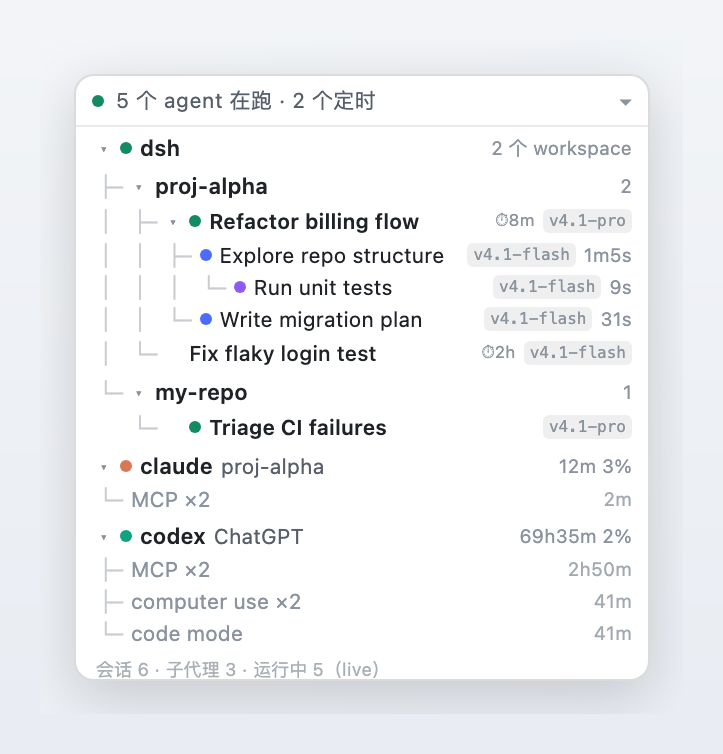
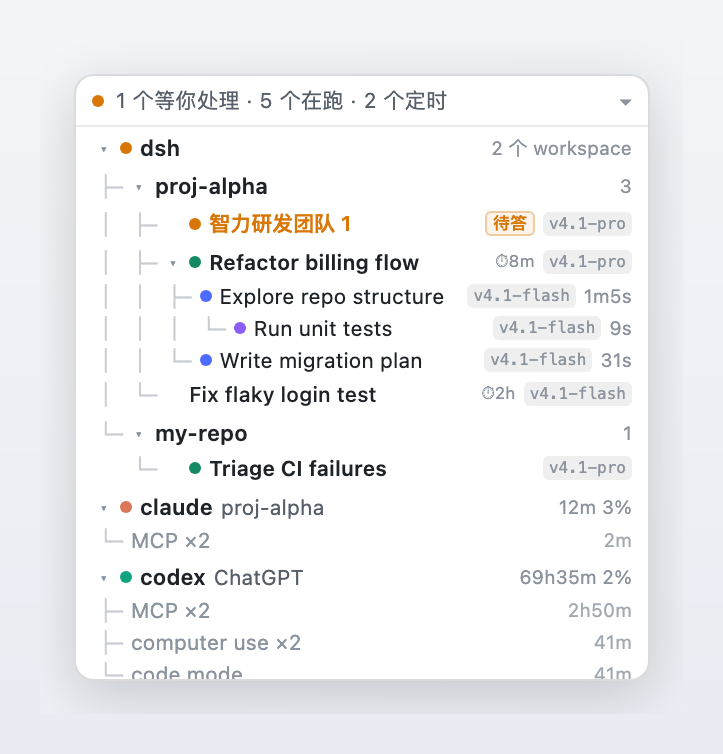
feat: 待处理高亮 + 定时任务修复

diff --git a/client.js b/client.js
@@ -44,6 +44,14 @@ window.__ModuleLoader__.load({
     };
     const KIND_DOT = { claude: '#d97757', codex: '#10a37f' };
 
+    /** 需要你拍板的状态：琥珀色，和「在跑」的绿/蓝明确区分。 */
+    const WAIT = {
+      question: { color: '#d97706', badge: '待答', title: '等你回答 agent 的问题' },
+      approval: { color: '#d97706', badge: '待批', title: '等你批准一次操作' },
+      'plan-review': { color: '#d97706', badge: '待审', title: '等你审阅 agent 的计划' },
+    };
+    const WAIT_ORDER = { question: 0, approval: 1, 'plan-review': 2 };
+
     const GLYPH_FONT = 'ui-monospace, SFMono-Regular, Menlo, Consolas, monospace';
 
     // ------------------------------------------------------------------ 纯函数
@@ -74,8 +82,8 @@ window.__ModuleLoader__.load({
     function sortNodes(nodes) {
       nodes.sort(
         (a, b) =>
-          Number(b.active) - Number(a.active) ||
-          Number(hasSchedule(b)) - Number(hasSchedule(a)) ||
+          nodeRank(b) - nodeRank(a) ||
+          (WAIT_ORDER[b.waiting] ?? 9) - (WAIT_ORDER[a.waiting] ?? 9) ||
           (b.row.updatedAt || 0) - (a.row.updatedAt || 0),
       );
       for (const node of nodes) sortNodes(node.children);
@@ -86,6 +94,21 @@ window.__ModuleLoader__.load({
       const live = statuses && typeof statuses.get === 'function' ? statuses.get(row.id) : undefined;
       if (live && typeof live.running === 'boolean') return live.running;
       return row.running === true;
+    }
+
+    /** 这个会话有没有在等你做判断：`question` / `approval` / `plan-review`。 */
+    function waitingKind(statuses, sessionId) {
+      const live = statuses && typeof statuses.get === 'function' ? statuses.get(sessionId) : undefined;
+      const kind = live && live.pendingInteraction && live.pendingInteraction.kind;
+      return WAIT[kind] ? kind : undefined;
+    }
+
+    /** 节点的排序权重：等你拍板 > 在跑 > 有定时任务 > 其它。 */
+    function nodeRank(node) {
+      if (node && node.waiting) return 3;
+      if (node && node.active) return 2;
+      if (hasSchedule(node)) return 1;
+      return 0;
     }
 
     function baseName(path) {
@@ -286,6 +309,17 @@ window.__ModuleLoader__.load({
       const activeRows = rows.filter((row) => isRunning(row, statuses));
       for (const row of activeRows) attach(row);
 
+      // 需要你判断的会话：可能已经不在跑（等输入），但必须出现在最上面
+      const waitingNodes = new Set();
+      for (const row of rows) {
+        const kind = waitingKind(statuses, row.id);
+        if (kind === undefined) continue;
+        const node = attach(row);
+        if (!node) continue;
+        node.waiting = kind;
+        waitingNodes.add(node);
+      }
+
       // 定时任务（间歇式工作的会话）：不在跑也要列出来，标上倒计时
       const scheduleEntries = schedules instanceof Map ? schedules : new Map();
       const scheduledNodes = new Set();
@@ -311,6 +345,7 @@ window.__ModuleLoader__.load({
       return {
         groups: ordered,
         running: activeRows.length,
+        waiting: waitingNodes.size,
         scheduled: scheduledNodes.size,
         conversations: conversationNodes.size,
         stats,
@@ -440,9 +475,34 @@ window.__ModuleLoader__.load({
       );
     }
 
+    /** 「等你拍板」的小徽标：琥珀色 `待答` / `待批` / `待审`。 */
+    function WaitBadge({ kind }) {
+      const info = WAIT[kind];
+      if (!info) return null;
+      return h(
+        'span',
+        {
+          title: info.title,
+          style: {
+            flex: 'none',
+            fontSize: 8.5,
+            fontWeight: 600,
+            lineHeight: 1,
+            padding: '1px 3px',
+            borderRadius: 3,
+            color: info.color,
+            border: `1px solid ${info.color}55`,
+            background: `${info.color}14`,
+          },
+        },
+        info.badge,
+      );
+    }
+
     function MiniInner({ tree, onOpen, mode, processes }) {
       const [manualCollapsed, setManualCollapsed] = React.useState(null);
-      const collapsed = manualCollapsed === null ? tree.running === 0 && tree.scheduled === 0 : manualCollapsed;
+      const collapsed =
+        manualCollapsed === null ? tree.running === 0 && tree.scheduled === 0 && tree.waiting === 0 : manualCollapsed;
       const [collapsedNodes, setCollapsedNodes] = React.useState({});
       const now = useNow();
       const [pos, setPos] = React.useState(() => {
@@ -547,13 +607,17 @@ window.__ModuleLoader__.load({
                   },
                   hasChildren ? (expanded ? '▾' : '▸') : '',
                 ),
-                node.active ? h(Dot, { color: DOT.conversation, active: true }) : null,
+                node.waiting
+                  ? h(Dot, { color: WAIT[node.waiting].color, active: true })
+                  : node.active
+                    ? h(Dot, { color: DOT.conversation, active: true })
+                    : null,
                 clampSpan(shortTitle(node.row), {
                   fontSize: 10.5,
-                  fontWeight: node.active ? 600 : 500,
-                  color: 'var(--dsw-alias-label-primary)',
+                  fontWeight: node.waiting || node.active ? 600 : 500,
+                  color: node.waiting ? WAIT[node.waiting].color : 'var(--dsw-alias-label-primary)',
                 }),
-                clock,
+                node.waiting ? h(WaitBadge, { kind: node.waiting }) : clock,
                 h(ModelChip, { text: model, inherited: own === '' && model !== '' }),
               ),
             );
@@ -580,12 +644,16 @@ window.__ModuleLoader__.load({
                 },
               },
               glyph(connector),
-              h(Dot, { color, active: node.active }),
+              h(Dot, { color: node.waiting ? WAIT[node.waiting].color : color, active: node.active || Boolean(node.waiting) }),
               clampSpan(shortTitle(node.row), {
                 fontSize: 10.5,
-                color: node.active ? 'var(--dsw-alias-label-primary)' : 'var(--dsw-alias-label-tertiary)',
+                color: node.waiting
+                  ? WAIT[node.waiting].color
+                  : node.active
+                    ? 'var(--dsw-alias-label-primary)'
+                    : 'var(--dsw-alias-label-tertiary)',
               }),
-              clock,
+              node.waiting ? h(WaitBadge, { kind: node.waiting }) : clock,
               h(ModelChip, { text: model, inherited: own === '' && model !== '' }),
               h(
                 'span',
@@ -637,7 +705,10 @@ window.__ModuleLoader__.load({
             },
           },
           caret(rootOpen),
-          h(Dot, { color: DOT.conversation, active: tree.running > 0 }),
+          h(Dot, {
+            color: tree.waiting > 0 ? WAIT.question.color : DOT.conversation,
+            active: tree.running > 0 || tree.waiting > 0,
+          }),
           clampSpan('dsh', { flex: 'none', fontSize: 11, fontWeight: 600, color: 'var(--dsw-alias-label-primary)' }),
           h('span', { style: { flex: 1 } }),
           h(
@@ -782,11 +853,16 @@ window.__ModuleLoader__.load({
       const visible = rows.slice(0, MAX_ROWS);
       const stats = tree.stats || { total: 0, subagents: 0, runningLive: 0 };
       const statsLine = `会话 ${stats.total} · 子代理 ${stats.subagents} · 运行中 ${stats.runningLive}（${mode}）`;
+      const busyParts = [];
+      if (tree.running > 0) busyParts.push(`${tree.running} 个在跑`);
+      if (tree.scheduled > 0) busyParts.push(`${tree.scheduled} 个定时`);
       const headline =
-        tree.running > 0
-          ? `${tree.running} 个 agent 在跑${tree.scheduled > 0 ? ` · ${tree.scheduled} 个定时` : ''}`
-          : tree.scheduled > 0
-            ? `空闲 · ${tree.scheduled} 个定时待命`
+        tree.waiting > 0
+          ? `${tree.waiting} 个等你处理${busyParts.length > 0 ? ` · ${busyParts.join(' · ')}` : ''}`
+          : busyParts.length > 0
+            ? `${tree.running > 0 ? `${tree.running} 个 agent 在跑` : '空闲'}${
+                tree.scheduled > 0 ? ` · ${tree.scheduled} 个定时` : ''
+              }`
             : 'Agent 树';
 
       return h(
@@ -821,7 +897,10 @@ window.__ModuleLoader__.load({
               borderBottom: collapsed ? 'none' : '1px solid var(--dsw-alias-border-l1, rgba(127,127,127,.16))',
             },
           },
-          h(Dot, { color: DOT.conversation, active: tree.running > 0 }),
+          h(Dot, {
+            color: tree.waiting > 0 ? WAIT.question.color : DOT.conversation,
+            active: tree.running > 0 || tree.waiting > 0,
+          }),
           h(
             'span',
             {
@@ -925,18 +1004,39 @@ window.__ModuleLoader__.load({
       return snapshot;
     }
 
+    /**
+     * 拿 `remote.schedule` 命名空间。
+     * 它是别的客户端插件挂上来的服务（服务名就是 `remote.schedule`），
+     * 只读 `ctx.remote.schedule` 在命名空间还没挂上时会拿到 undefined，
+     * 所以再用 `ctx.get('remote.schedule')` 试一次。
+     */
+    function scheduleRemote(ctx) {
+      if (!ctx) return undefined;
+      try {
+        const direct = ctx.remote && ctx.remote.schedule;
+        if (direct && typeof direct.catalog === 'function') return direct;
+      } catch (err) {
+        /* 服务还没就绪：继续走 ctx.get */
+      }
+      try {
+        const service = typeof ctx.get === 'function' ? ctx.get('remote.schedule') : undefined;
+        if (service && typeof service.catalog === 'function') return service;
+      } catch (err) {
+        /* 没有 schedule 能力就当没有定时任务 */
+      }
+      return undefined;
+    }
+
     /** 定时任务目录：轮询 + 跟随 `schedule/changed`。 */
     function useScheduleCatalog() {
       const [schedules, setSchedules] = React.useState(() => new Map());
       React.useEffect(() => {
         let alive = true;
         const read = async () => {
-          const ctx = clientCtx;
-          if (!ctx || !ctx.remote || !ctx.remote.schedule || typeof ctx.remote.schedule.catalog !== 'function') {
-            return;
-          }
+          const schedule = scheduleRemote(clientCtx);
+          if (!schedule) return;
           try {
-            const result = await ctx.remote.schedule.catalog();
+            const result = await schedule.catalog();
             if (!alive || !result || result.ok !== true) return;
             setSchedules(toScheduleMap(result.value));
           } catch (err) {
@@ -1080,6 +1180,9 @@ window.__ModuleLoader__.load({
         baseName,
         workspaceLabel,
         isRunning,
+        waitingKind,
+        nodeRank,
+        scheduleRemote,
         sortNodes,
       groupProcessChildren,
         modelLabel,

diff --git a/README.md b/README.md
@@ -19,8 +19,11 @@
 - **颜色即层级**：顶层对话绿点、第 2 层 subagent 蓝点、第 3 层及更深紫点、已结束灰点。
 - **每行右侧模型标签**：读会话投影 `modelSelection`（`next` → `lastUsed`），压成 `v4.1-flash` 这类短标签；
   subagent 没有自己的记录时继承上级（悬停会标注）。
-- **定时任务倒计时**：读 Automation tasks 的 `schedule.catalog()`，间歇式工作的会话**即使现在没在跑也会列出**，
-  右侧显示 `⏱8m / ⏱2h / ⏱3d`，标题变成「N 个 agent 在跑 · M 个定时」。
+- **定时任务倒计时**：读 Automation tasks 的 `schedule.catalog()`（服务名 `remote.schedule`，命名空间没挂上时用
+  `ctx.get` 兜底），间歇式工作的会话**即使现在没在跑也会列出**，右侧显示 `⏱8m / ⏱2h / ⏱3d`。
+- **需要你拍板的会话来最上面**：agent 提问、等你批准操作、等你审阅计划时（`pendingInteraction` = `question` /
+  `approval` / `plan-review`），那一行**换成琥珀色**、带 `待答 / 待批 / 待审` 小徽标，并且**排在在跑的之前**——
+  以前这类会话因为「没在跑」会直接消失。
 - **本机外部 agent 进程（也是树）**：插件宿主半部提供只读接口，用 `ps` + `lsof` 找到本机正在跑的 **claude / codex CLI**，
   再按 `ppid` 把它们的子进程挂成子树（如 codex 的 `computer use ×4` / `MCP ×3` / `code mode`）。它们是**和 `dsh` 同级的顶层 agent 节点**，行规格完全一致，可折叠。
   ChatGPT 桌面端里的 `Codex Framework` 辅助进程本身不会被误认成 CLI。
@@ -63,7 +66,8 @@ dsh plugin --profile web add "$PWD"
 
 | 你看到的 | 意思 |
 |---|---|
-| `● 5 个 agent 在跑 · 2 个定时` | 有 5 个会话/子代理在跑，另有 2 个会话由定时任务驱动（可能当前空闲） |
+| `● 1 个等你处理 · 5 个在跑 · 2 个定时` | 有 1 个会话在等你拍板（提问/审批/计划审阅），5 个在跑，2 个由定时任务驱动 |
+| `├─ ● 智力研发团队 1  待答  v4.1-pro` | 这一行**要你决定**：琥珀色圆点 + `待答` 徽标，排在在跑的会话之前 |
 | `▾ ● dsh  2 个 workspace` | 本机上的一个 agent：当前这个 DSH 实例，右上是它的 workspace 数 |
 | `├─ ▾ proj-alpha  2` | workspace 分组，右上是它下面列出的分支数 |
 | `├─ ▾ ● Refactor billing flow  ⏱8m  v4.1-pro` | 顶层对话在跑（绿点），8 分钟后有下一次定时，用 v4.1-pro |

diff --git a/README.en.md b/README.en.md
@@ -19,7 +19,8 @@ at which depth, on which model, for how long, and when its next scheduled run fi
 - **Always-on entry** — idle collapses to `● Agent tree ▸`; work re-expands it; manual collapse wins.
 - **Color = depth** — green dot for top-level conversations, blue for level-2 subagents, violet for deeper ones, grey for finished rows.
 - **Per-row model chip** (right aligned) — from the session projection `modelSelection` (`next` → `lastUsed`), shortened to `v4.1-flash`; subagents without their own record inherit the parent's (tooltip says so).
-- **Scheduled-task countdown** — reads `schedule.catalog()` from Automation tasks; sessions driven by a schedule are listed even while idle, with `⏱8m / ⏱2h / ⏱3d` and a `N running · M scheduled` headline.
+- **Scheduled-task countdown** — reads `schedule.catalog()` from Automation tasks (the `remote.schedule` service, with a `ctx.get` fallback while its namespace is not mounted yet); sessions driven by a schedule are listed even while idle, with `⏱8m / ⏱2h / ⏱3d` and a `N running · M scheduled` headline.
+- **Sessions that need your call come first** — when an agent asks a question, waits for an approval, or waits for a plan review (`pendingInteraction` = `question` / `approval` / `plan-review`), that row turns **amber**, carries a `待答 / 待批 / 待审` badge and **sorts above running rows**. Previously such a session disappeared because it was no longer running.
 - **Local external agent processes, also as a tree** — the plugin's host half exposes a read-only endpoint that finds running **claude / codex CLIs** via `ps` + `lsof` and nests their children by `ppid` (e.g. codex's `computer use ×4` / `MCP ×3` / `code mode`). They show up as **top-level agents next to `dsh`**, with exactly the same row spec. ChatGPT desktop's `Codex Framework` helpers are not mistaken for CLIs themselves.
 - **Click to jump** — `subagentAddress()` + `uiWorkspace.openSession()`, including subagents.
 - **Draggable, remembers its position** — stored in `localStorage`.

diff --git a/docs/manual.md b/docs/manual.md
@@ -36,6 +36,23 @@
 
 自动折叠规则：`running === 0 && scheduled === 0` 时收起；一旦有活儿自动展开（除非你手动收起了）。
 
+## 1.4 需要你拍板的会话
+
+agent 提问（`ask_user_question`）、等你批准一次操作、等你审阅计划时，会话会停在「等输入」状态，不算在跑。
+卡片把这类会话**放在最上面**，并换成琥珀色 + 小徽标：
+
+```
+├─ ● 智力研发团队 1            待答   v4.1-pro
+│  └─ ● 计划审阅               待审
+```
+
+- `待答`：agent 提了问题，等你选/答。
+- `待批`：等你批准一次操作（命令、写文件、联网等）。
+- `待审`：等你审阅计划（plan review）。
+
+这类行排在「在跑」之前，所以永远不会因为「没在跑」被折叠掉；标题栏也会变成
+「N 个等你处理 · M 个在跑 · K 个定时」。
+
 ## 1.5 层级
 
 **顶层是「本机上的 agent」列表**：`dsh`（这个实例）和每个外部 `claude` / `codex` 是同级节点，

diff --git a/docs/manual.en.md b/docs/manual.en.md
@@ -37,6 +37,23 @@
 Auto-collapse rule: collapse when `running === 0 && scheduled === 0`; expand automatically as soon as work appears
 (unless you collapsed it manually).
 
+## 1.4 Sessions waiting for your call
+
+When an agent asks a question (`ask_user_question`), waits for an approval, or waits for a plan review, the session
+stops at "waiting for input" and no longer counts as running. The card puts those rows **first**, in amber, with a badge:
+
+```
+├─ ● Research team 1         待答   v4.1-pro
+│  └─ ● Plan review          待审
+```
+
+- `待答` — the agent asked a question and waits for your answer.
+- `待批` — waiting for you to approve one operation.
+- `待审` — waiting for your plan review.
+
+They sort above running rows, so they can never be collapsed away for "not running"; the headline becomes
+`N waiting for you · M running · K scheduled`.
+
 ## 1.5 Levels
 
 Four levels (plus grandchild, i.e. five in the deepest row):

diff --git a/CHANGELOG.md b/CHANGELOG.md
@@ -1,5 +1,11 @@
 # Changelog
 
+## 未发布
+
+- **「等你拍板」的会话不再消失**：读实时状态里的 `pendingInteraction`（`question` / `approval` / `plan-review`），这类会话即使没在跑也会列出，琥珀色圆点 + `待答 / 待批 / 待审` 徽标，排在在跑的前面；标题栏变成「N 个等你处理 · M 个在跑 · K 个定时」。
+- **定时任务显示修复**：`remote.schedule` 是别的客户端插件挂上来的命名空间服务，只读 `ctx.remote.schedule` 在它还没挂上时会拿到 undefined，导致定时任务整段消失；现在用 `ctx.get('remote.schedule')` 兜底并继续轮询。
+- 顶层改成「本机 agent 列表」：`dsh` 与 `claude` / `codex` 同级，各自展开自己的子树；行规格统一。
+
 ## 0.1.0 — 2026-10-28
 
 首个公开版本。从「一个会话里翻着看 subagent 太累」长出来的一张小卡片。
